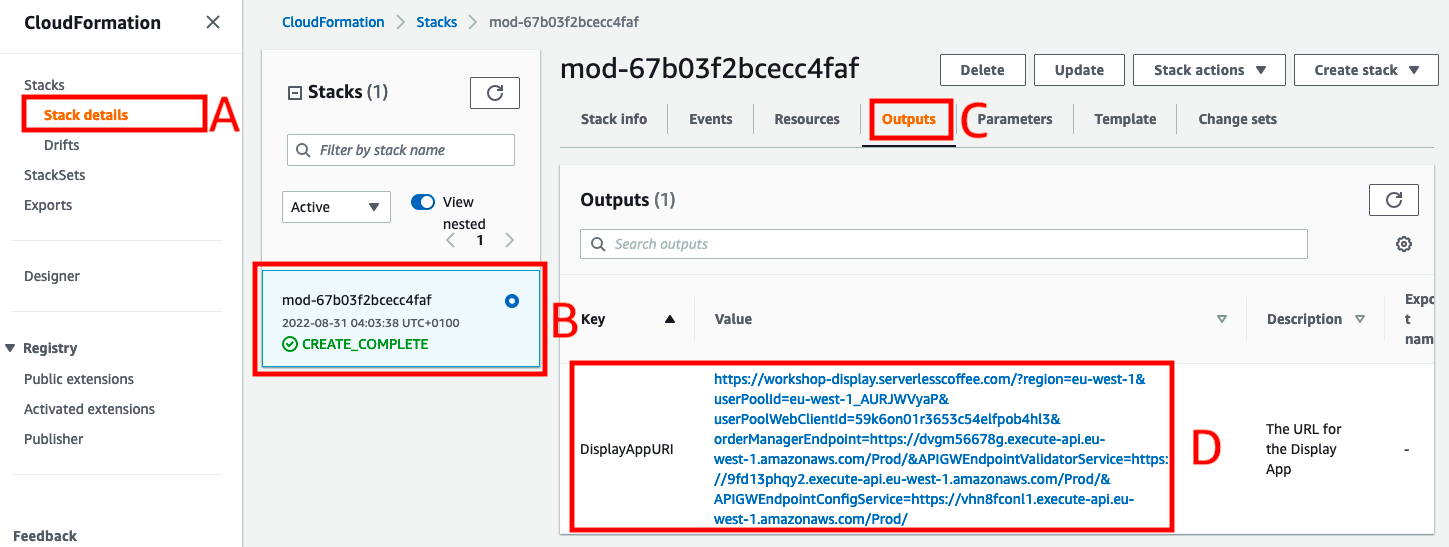
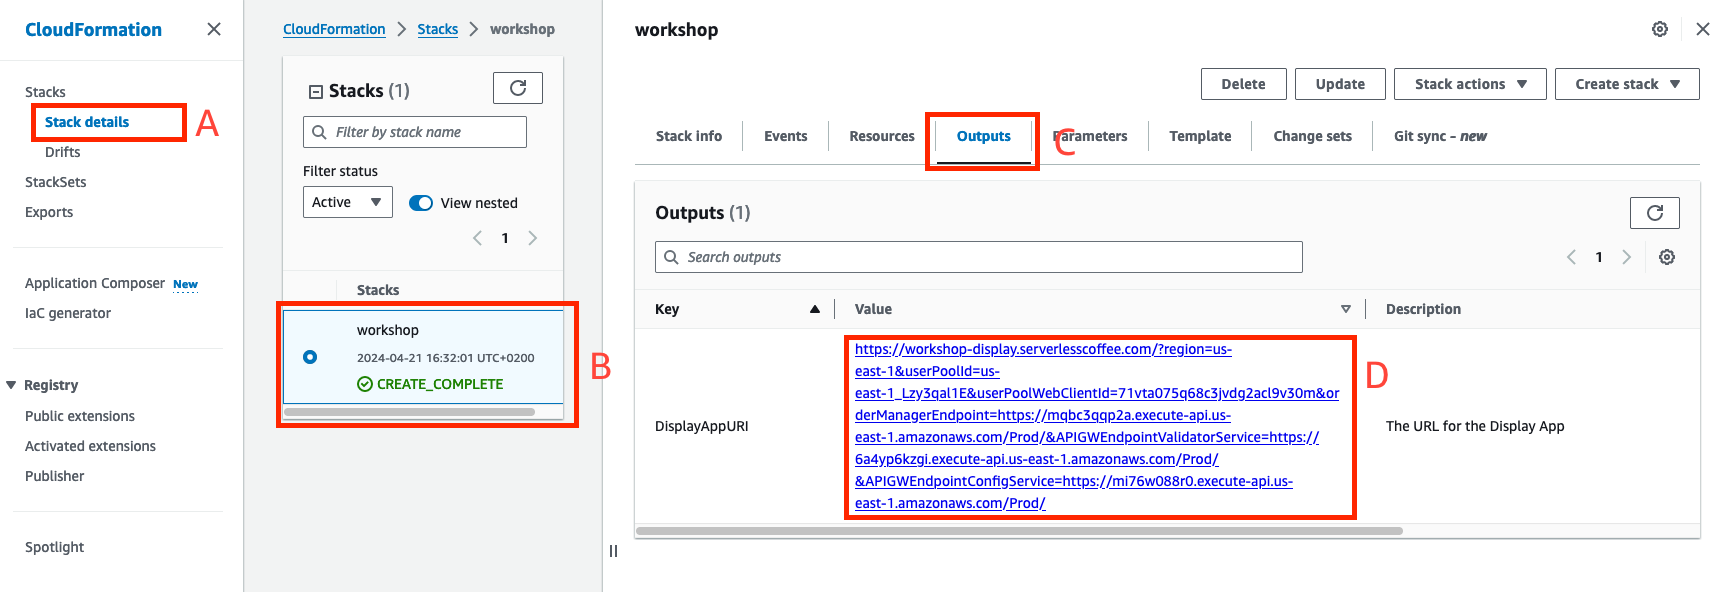
Fix outdated workshop name in instructions

diff --git a/instructions/content/3-web-apps/3-frontends/1-displayapp/_index.en.md b/instructions/content/3-web-apps/3-frontends/1-displayapp/_index.en.md
@@ -25,7 +25,7 @@ Most of front end configurations have already been entered for you, you must loa
 1. From the AWS Management Console, search for "Cloud Formation", then choose "Cloud Formation" from the list of results.
 ![Settings page](/images/se-mod3-backend-display-setup-1.png)
 
-2. From the List of Stacks, select the core stack it should be named something like **mod-67b03f2bcecc4faf**. 
+2. From the List of Stacks, select the stack that should be named something like **workshop**. 
 
 3.Choose the **Outputs** tab.
 
